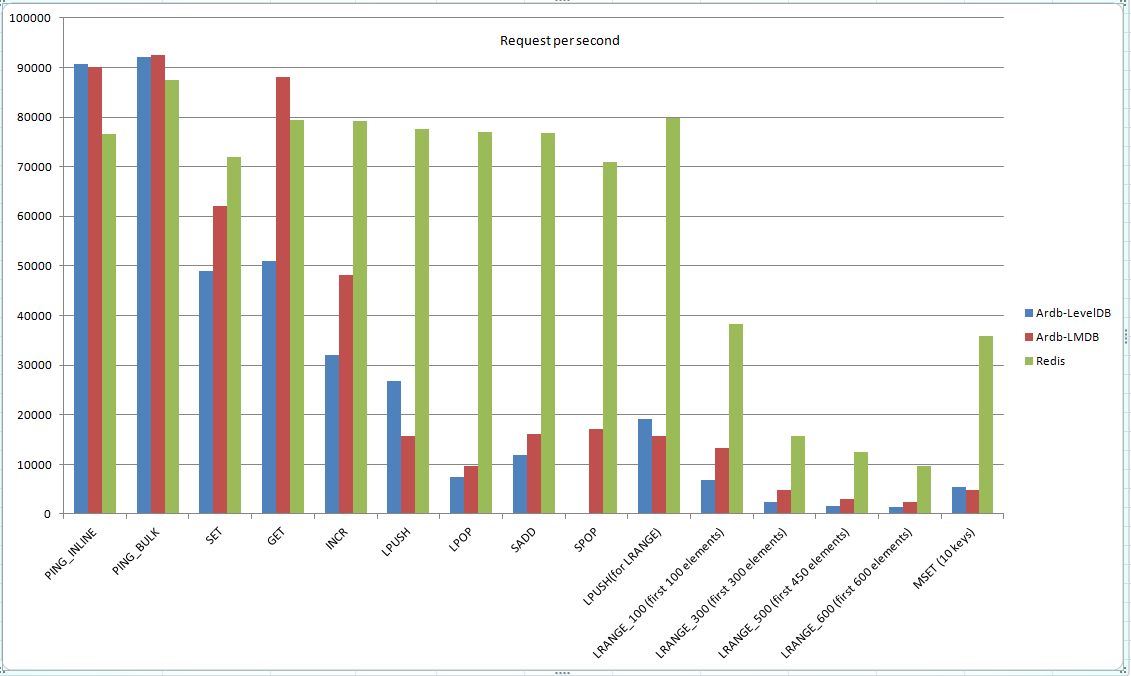
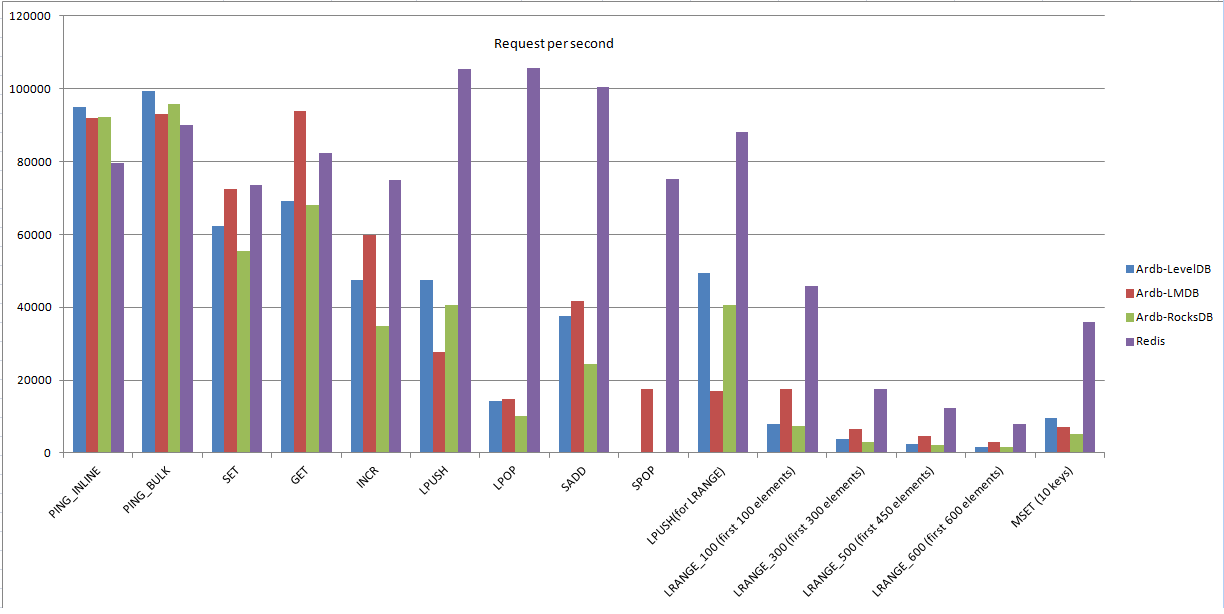
add benchamrk data for rocksdb

Changed region(s): [[0.0, 0.0, 1.0, 1.0]]

diff --git a/README.md b/README.md
@@ -38,33 +38,35 @@ Benchmarks were all performed on a four-core Intel(R) Xeon(R) CPU E5520@2.27GHz,
 
 The benchmark tool is 'redis-benchmark' from redis,50 parallel clients, 10000000 requests, 1000000 random keys each test case. There would be no benchmark test for RocksDB engine because of OS and compiler version limit in the test machine.
 
-GCC Version:3.4.5  
+GCC Version:4.8.3  
 OS Version: Red Hat Enterprise Linux AS release 4 (Nahant Update 3)   
 Kernel Version: 2.6.32_1-10-6-0       
 Redis Version: 2.8.9  
-Ardb Version: 0.7.2(LMDB 0.9.11, LevelDB1.16.0)  
-LevelDB Options: thread_pool_size=2, block_cache_size=512m, write_buffer_size=128m, compression=snappy  
+Ardb Version: 0.7.2(LMDB 0.9.11, LevelDB1.16.0, RocksDB3.1)  
+LevelDB Options: thread_pool_size=2, block_cache_size=512m, write_buffer_size=128m, compression=snappy   
+RocksDB Options: thread_pool_size=2, block_cache_size=512m, write_buffer_size=128m, compression=snappy   
 LMDB Option: thread_pool_size=2, database_max_size=10G, readahead=no    
 
 ![Benchmark Img](https://raw.github.com/yinqiwen/ardb/master/doc/benchmark.png)
 
 	Becnhmark data(./redis-benchmark -r 10000000 -n 10000000):
-	                                  LevelDB    LMDB       Redis
-    PING_INLINE	                      90682.38   90020.34   76523.39
-    PING_BULK	                      92039.51   92506.94   87438.58
-    SET	                              49030.18	 62066.71   71850.44
-    GET	                              50949.18   87973.19   79349.96
-    INCR	                          32067.83	 48217.17   79298.37
-    LPUSH	                          26702.13	 15689.55   77643.97        
-    LPOP	                           7395.19	  9658.43   77026.77
-    SADD	                          11958.49	 16065.06   76780.74
-    SPOP	                           109.326	 17067.09   70997.52
-    LPUSH(for LRANGE)	              19161.13	 15705.01   79808.46
-    LRANGE_100(first 100 elements)	   6796.99   13343.12   38269.61
-    LRANGE_300(first 300 elements)	   2374.41	  4751.47   15735.71
-    LRANGE_500(first 450 elements)	   1650.37	  3004.68   12432.77
-    LRANGE_600(first 600 elements)	   1345.24	  2505.98    9586.19
-    MSET (10 keys)	                   5472.67	  4794.23   35967.61
+	                        LevelDB	  LMDB	        RocksDB	    Redis
+    PING_INLINE	            95075.11	91945.56	92274.76	79669.85
+    PING_BULK	            99265.43	92988.66	95721.27	90044.66
+    SET	                    62361.64	72490.03	55567.91	73692.51
+    GET	                    69045.99	93805.12	68078.16	82459.95
+    INCR	                47572.16	59805.03	34883.32	74940.61
+    LPUSH	                47369.57	27713.11	40584.42	105466.32
+    LPOP	                14205.29	14711.51	10088.27	105797.72
+    SADD	                37583.39	41779.82	24421.81	100405.64
+    SPOP	                 109.326	17614.32	  87.634	75253.04
+    LPUSH(for LRANGE)	    49504.95	16998.71	40719.93	87989.45
+    LRANGE_100 	             7981.99	17639.79	7445.68  	45831.61
+    LRANGE_300               3829.91	6578.86	    3113.99	    17608.11
+    LRANGE_500 	             2504.61	4552.06  	2156.08     12345.07
+    LRANGE_600 	             1734.72	3082.94	    1650.46	     7906.01
+    MSET (10 keys)	         9675.48	7204.56	    5255.44	     35967.6
+
 
 * Note: 
   - **Ardb uses 2 threads in benchmark test, while redis is single threaded application. That's the reason ardb is faster than redis in some test cases.**
